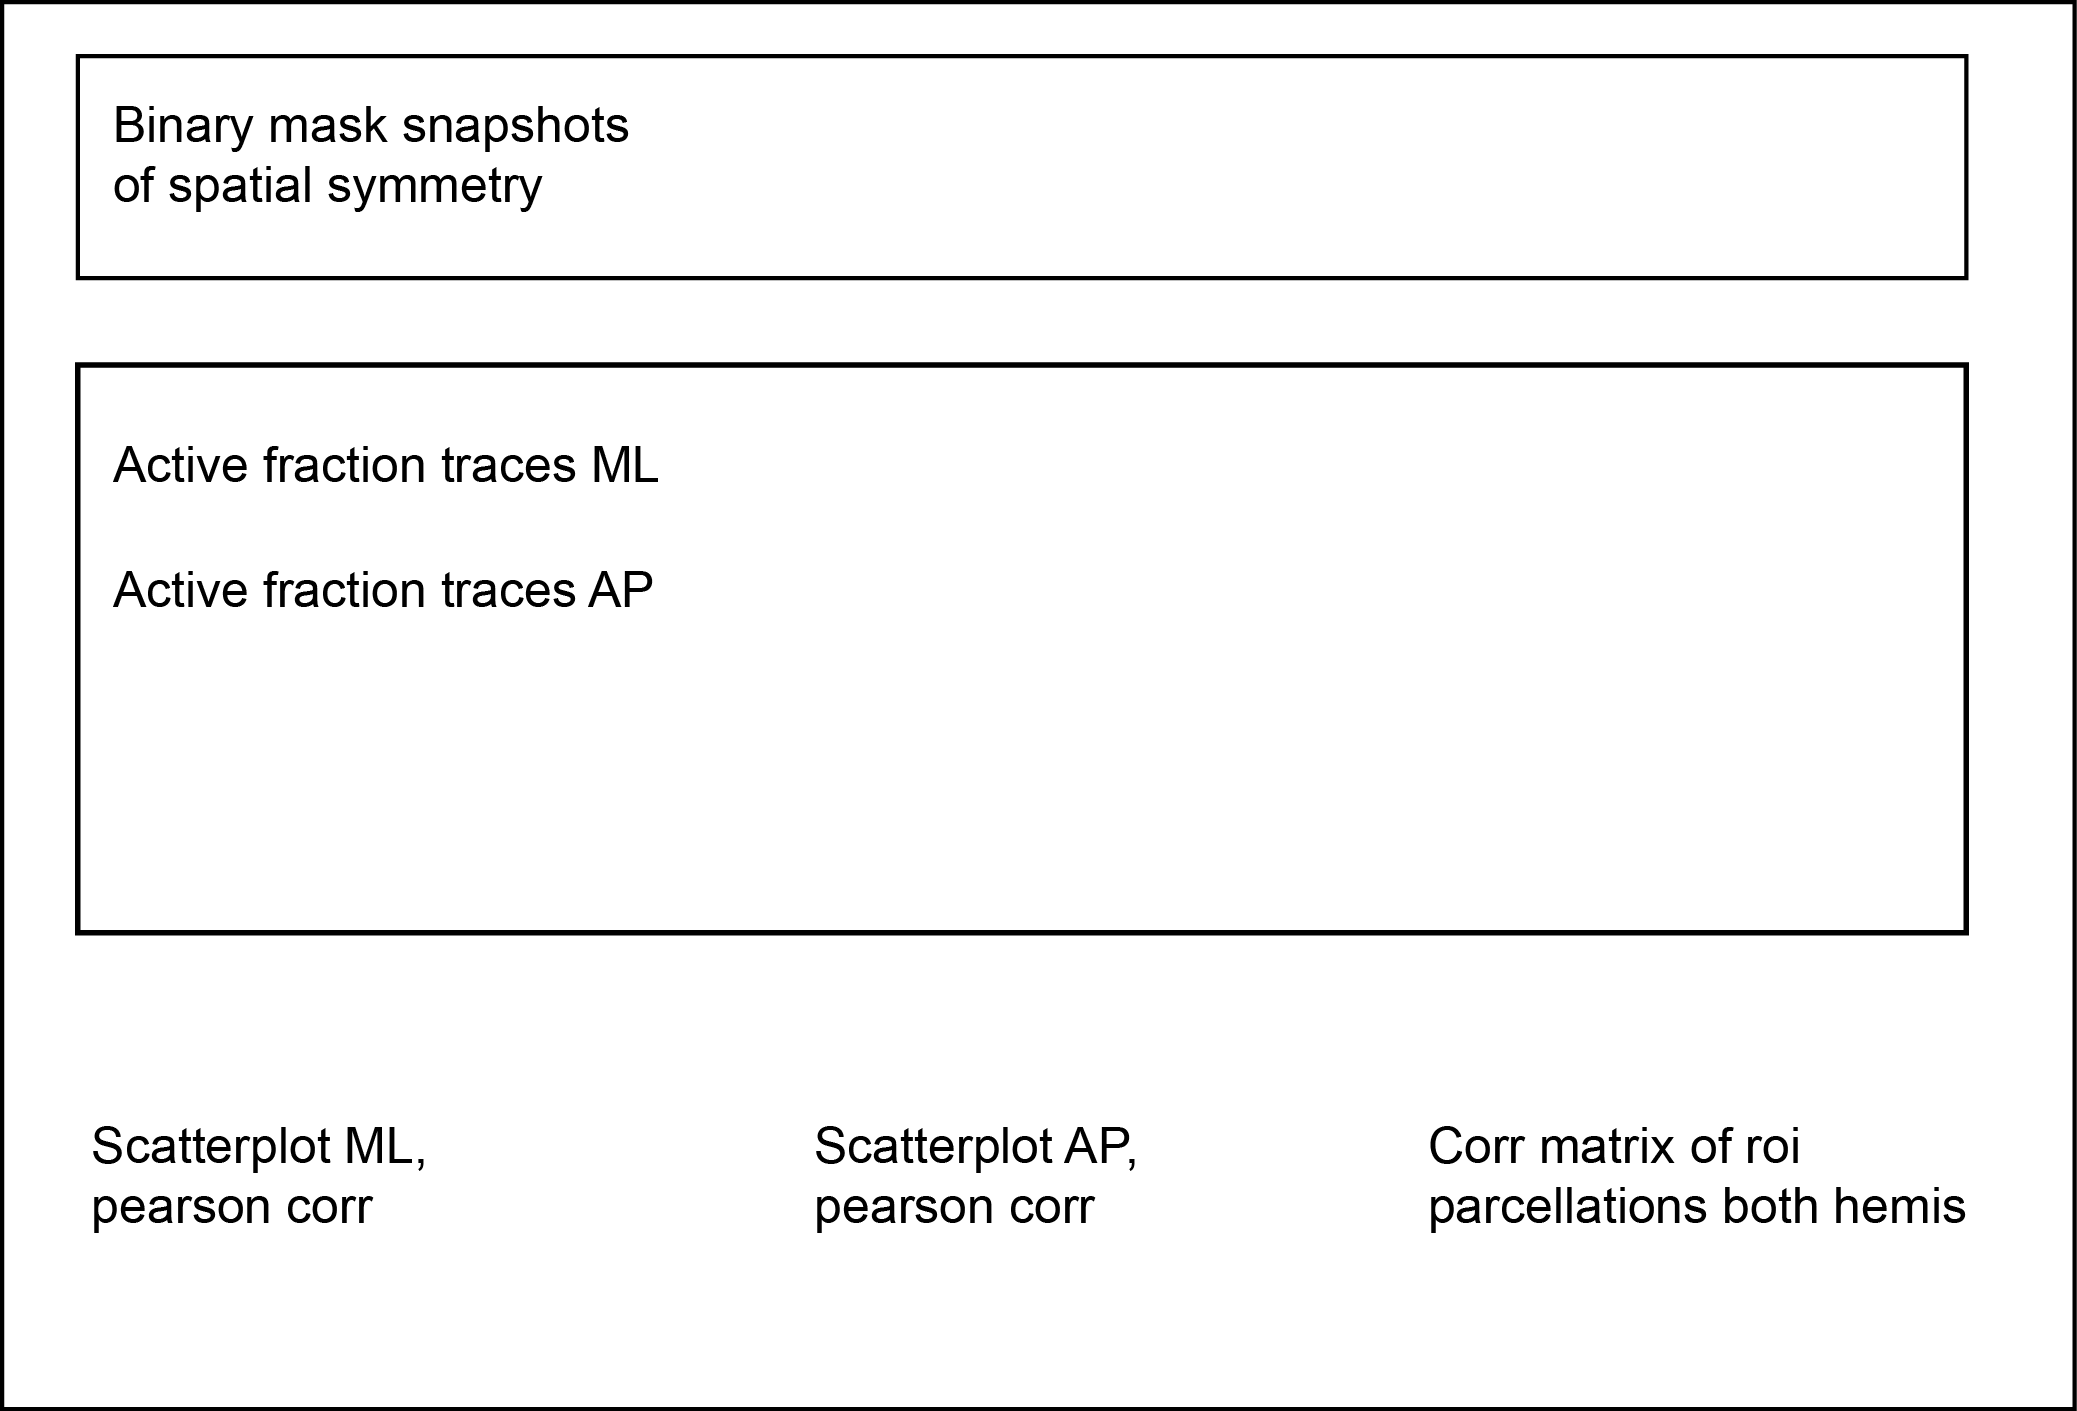
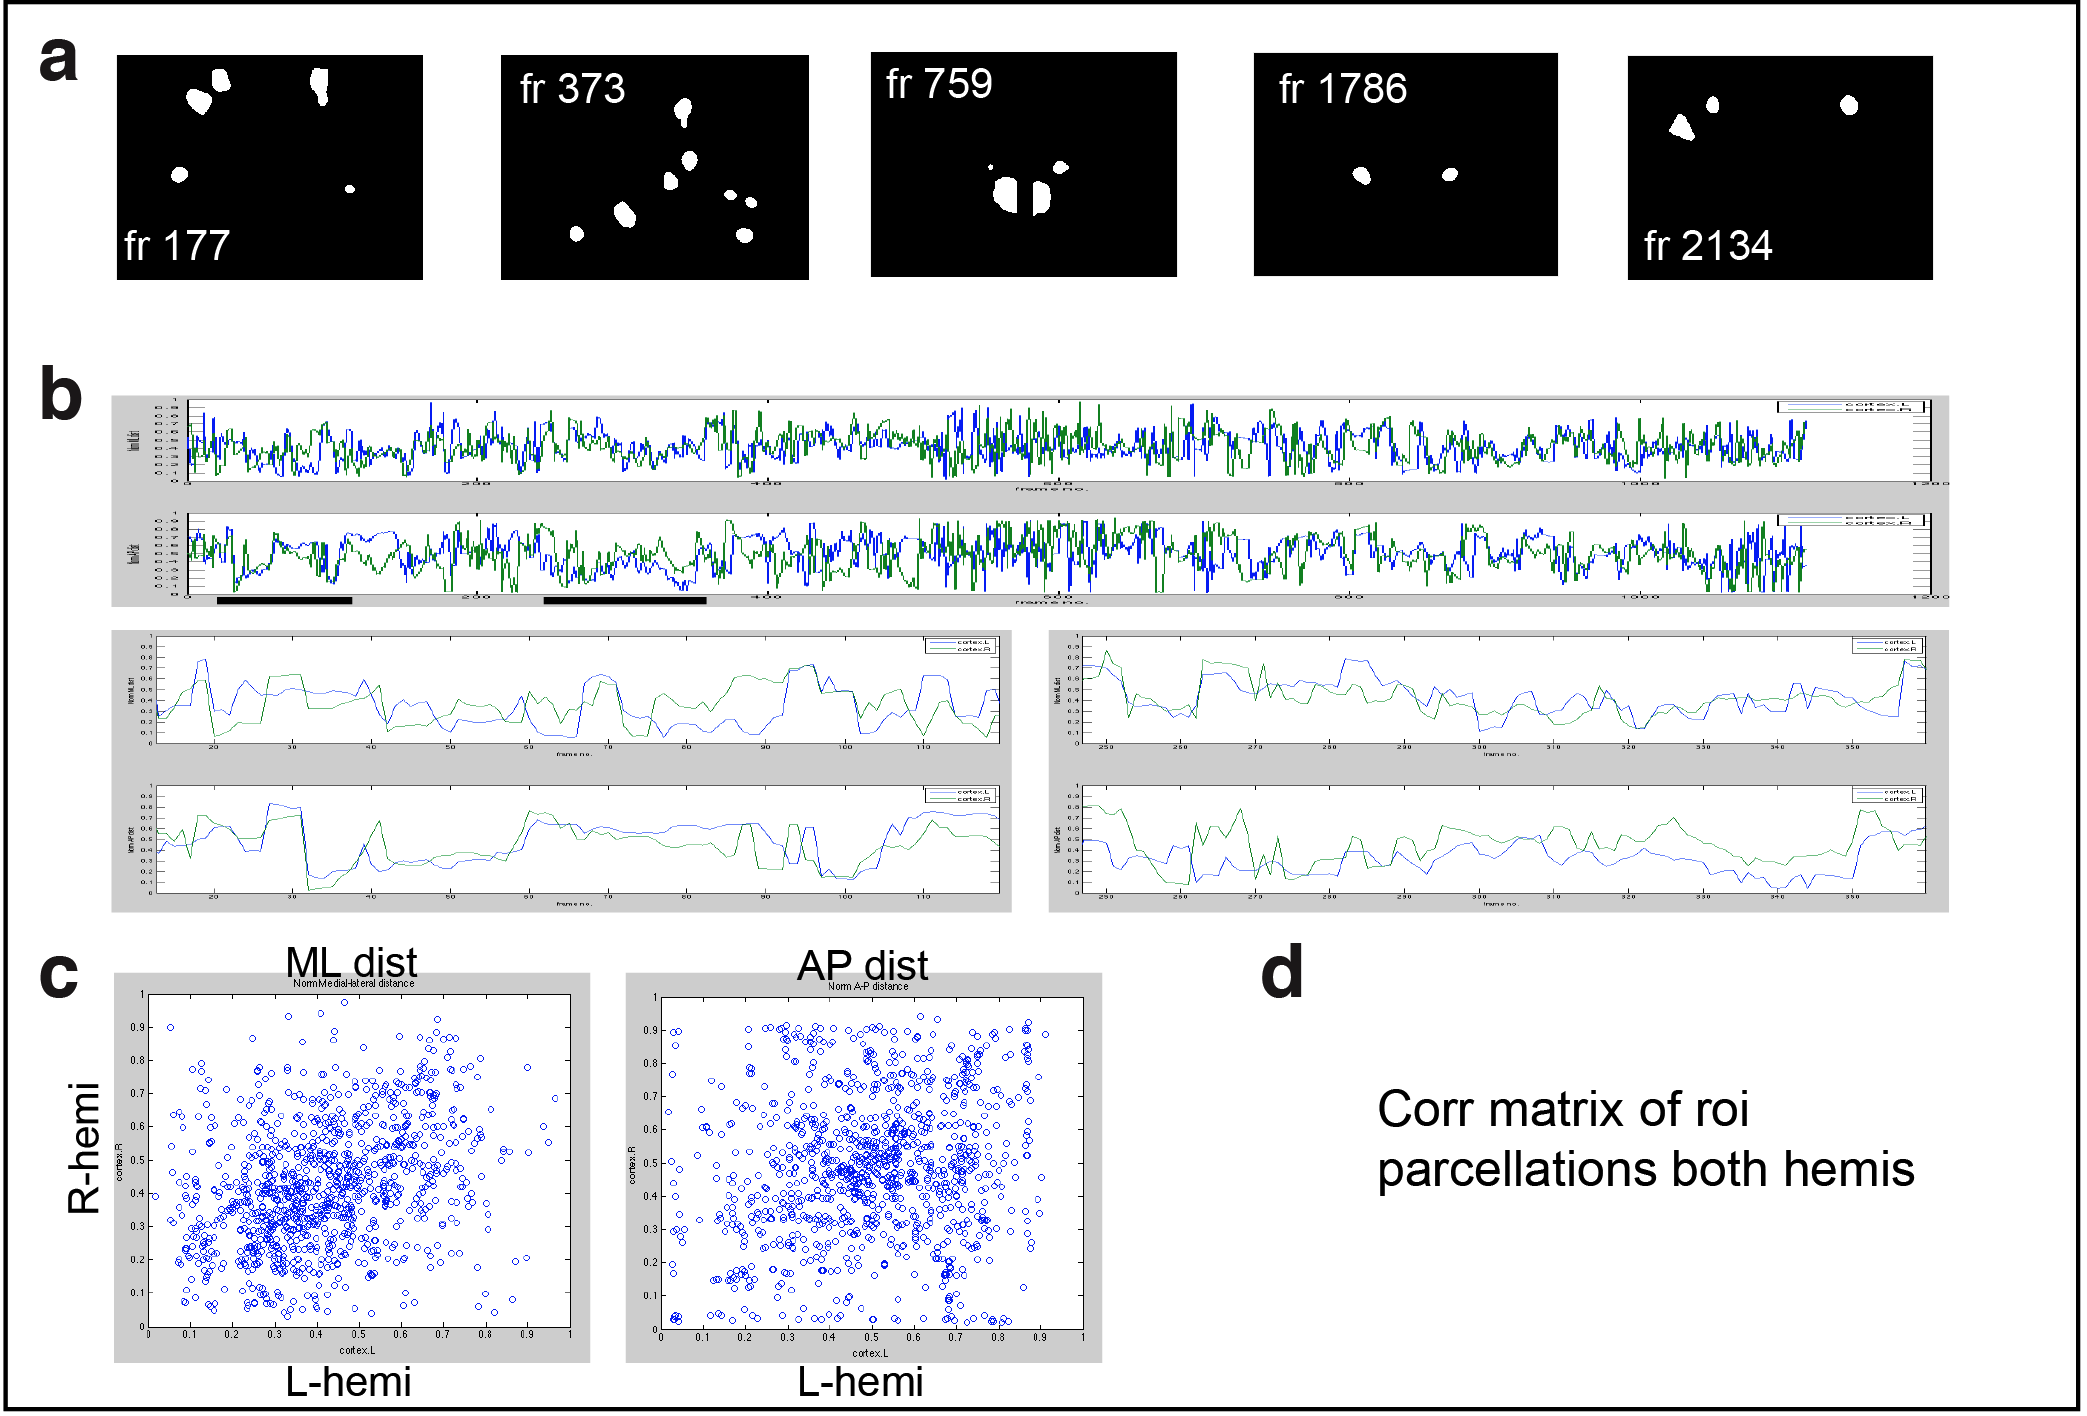
Drafted fig 3 with #results snapshots

diff --git a/wholeBrain_main.md b/wholeBrain_main.md
@@ -50,19 +50,6 @@ The cerebral cortex exhibits spontaneous and sensory evoked patterns of activity
 
 ![**Figure 1.** Calcium domains throughout neonatal mouse isocortex](figure1.png)
 
-<!---Figure 1 metadata
-* neonate_ms_fig.png
-* binary masks: Screen_Shot_2013-03-29_at_12.06.25_PM_crop.png, ..._crop1.png, ..._crop2.png
-* domain map: Screen_Shot_2013-05-14_at_4.11.51_PM_crop.png
-* hists: 120518_07_connComponents_BkgndSubtr60px-20130327-163111domains20130402-151440-crop.png
---->
-
-<!--- TODO: add a domain centroid size/duration map similar to: ![](../figures/Screen_Shot_2013-04-03_at_8.42.49_AM.png)
-![](../figures/Screen_Shot_2013-04-03_at_10.04.36_AM.png)
---->
-
-
-
 metric | mean  | min  | max    | unit                  
 ------------- | ----- | ---- | ------ | --------------------  
 diameter      | 396.0 | 22.7 | 2383.5 | µm                   
@@ -87,7 +74,7 @@ frequency     | 2.9   |      |        | domains/sec/hemisphere
 ![**Figure 2.** Cortical domains are state dependent](figure2.png)
 
 
-<!--- 
+<!---Figure 2 metadata 
 
 
 Temporal correlation of activity between the hemispheres and preceding motor activation:  
@@ -148,23 +135,17 @@ xcorr during motor period.
 * Regional effects, more corr anticorr in certain regions?
 * State dependent corr?
 
-<!--
-* sensory input required or stimulation experiments?
-* Each hemisphere 'training' the other one in preparation for behaviorally relevant sensory-motor imitations '[[mirror_neurons]]' hypothesis?  -->
-
+<!--- * Each hemisphere 'training' the other one in preparation for behaviorally relevant sensory-motor imitations '[[mirror_neurons]]' hypothesis? --->
 
 ![**Figure 3.** Cortical domain activity exhibits bilateral symmetry](figure3.png)
 
 
-![](../figures/Screen_Shot_2013-04-23_at_8.45.18_AM.png)
-![](../figures/Screen_Shot_2013-04-23_at_8.46.27_AM.png)
-![](../figures/Screen_Shot_2013-04-23_at_8.51.55_AM.png)
+
 
 xy pearson corr coef ML | xy pearson corr coef AP
 --- | ---
 p = 1.1591e-28 | p = 7.0982e-07
-
-![](../figures/Screen_Shot_2013-04-22_at_4.29.28_PM.png) | ![](../figures/Screen_Shot_2013-04-22_at_4.29.24_PM.png)
+*scatterplots in figure 3* ||
 
 
 
@@ -174,5 +155,35 @@ p = 1.1591e-28 | p = 7.0982e-07
 
 <!--- # References --->
 
+<!---Figure 1 metadata
+* neonate_ms_fig.png
+* binary masks: Screen_Shot_2013-03-29_at_12.06.25_PM_crop.png, ..._crop1.png, ..._crop2.png
+* domain map: Screen_Shot_2013-05-14_at_4.11.51_PM_crop.png
+* hists: 120518_07_connComponents_BkgndSubtr60px-20130327-163111domains20130402-151440-crop.png
+--->
+
+<!--- TODO: add a domain centroid size/duration map similar to: ![](../figures/Screen_Shot_2013-04-03_at_8.42.49_AM.png)
+![](../figures/Screen_Shot_2013-04-03_at_10.04.36_AM.png)
+--->
+
+<!---Figure 3 metadata
+binary mask snapshots, cropped from screen shots in [[2013-04-19_analysis]]
+Screen_Shot_2013-04-19_at_8.26.00_AM_fr1786.png
+Screen_Shot_2013-04-19_at_8.27.49_AM_fr2134.png
+Screen_Shot_2013-04-19_at_8.30.27_AM_fr759.png
+Screen_Shot_2013-04-19_at_8.30.51_AM_fr373.png
+Screen_Shot_2013-04-19_at_8.38.54_AM_fr177.png
+
+activefraction hemis AP & ML all: ![](../figures/Screen_Shot_2013-04-23_at_8.45.18_AM.png)
+activefraction hemis AP & ML segment: ![](../figures/Screen_Shot_2013-04-23_at_8.46.27_AM.png)
+activefraction hemis AP & ML segment: ![](../figures/Screen_Shot_2013-04-23_at_8.51.55_AM.png)
+scatterplot ML Screen_Shot_2013-04-22_at_4.29.28_PM.png
+scatterplot AP 
+--->
+
+
 <<[references.txt]
+
+
+
 
